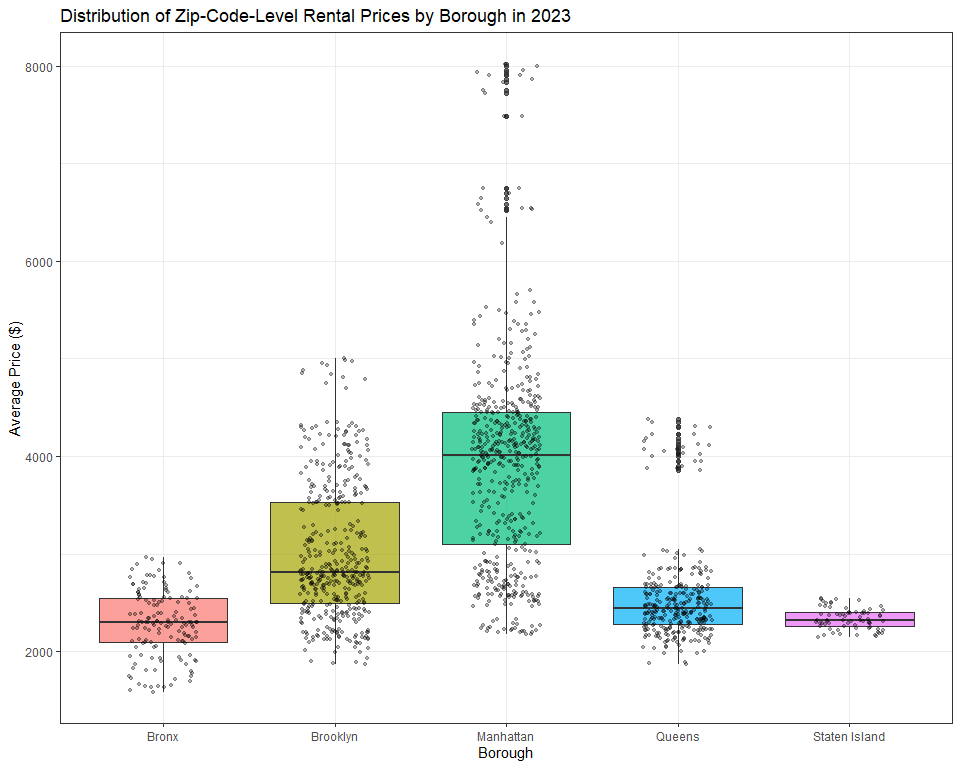
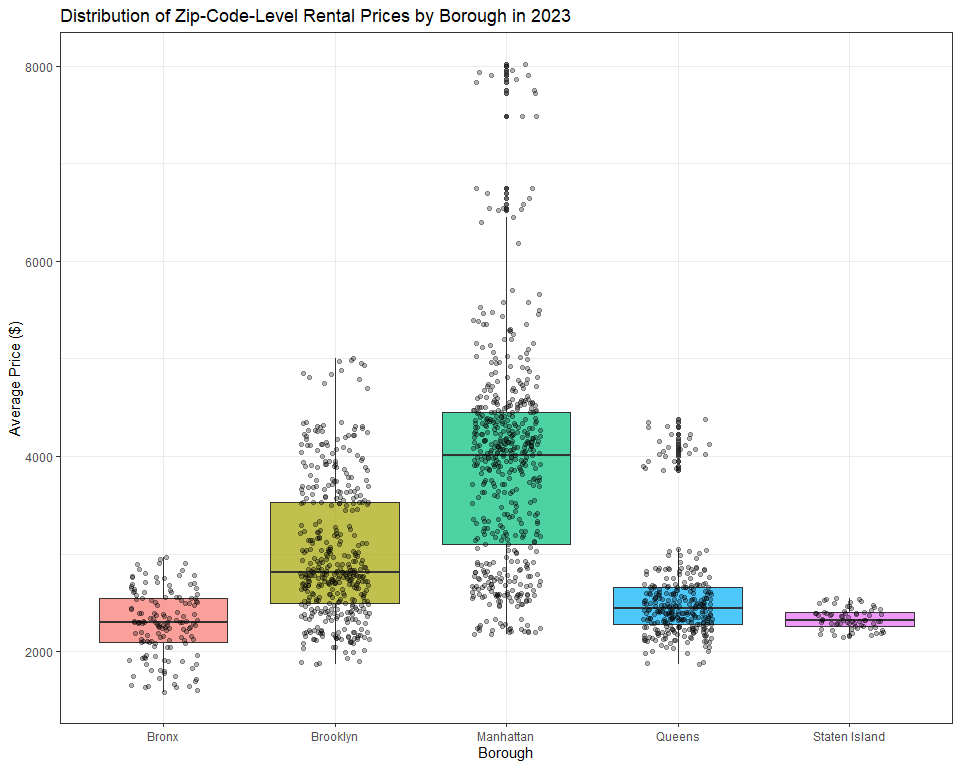
Fixed size + linewidth warning

diff --git a/p8105_hw3_mb5357.md b/p8105_hw3_mb5357.md
@@ -366,7 +366,7 @@ plot_2 <- combined_df |>
   geom_boxplot(alpha = 0.7) +   
   geom_jitter(width = 0.2, 
               alpha = 0.3, 
-              size = 1) + 
+              linewidth = 1) + 
     labs(
     title = "Distribution of Zip-Code-Level Rental Prices by Borough in 2023",
     x = "Borough",
@@ -375,8 +375,12 @@ plot_2 <- combined_df |>
   ) +
   theme_bw() +
   theme(legend.position = "none")
+```
 
+    ## Warning in geom_jitter(width = 0.2, alpha = 0.3, linewidth = 1): Ignoring
+    ## unknown parameters: `linewidth`
 
+``` r
 plot_2
 ```
 
